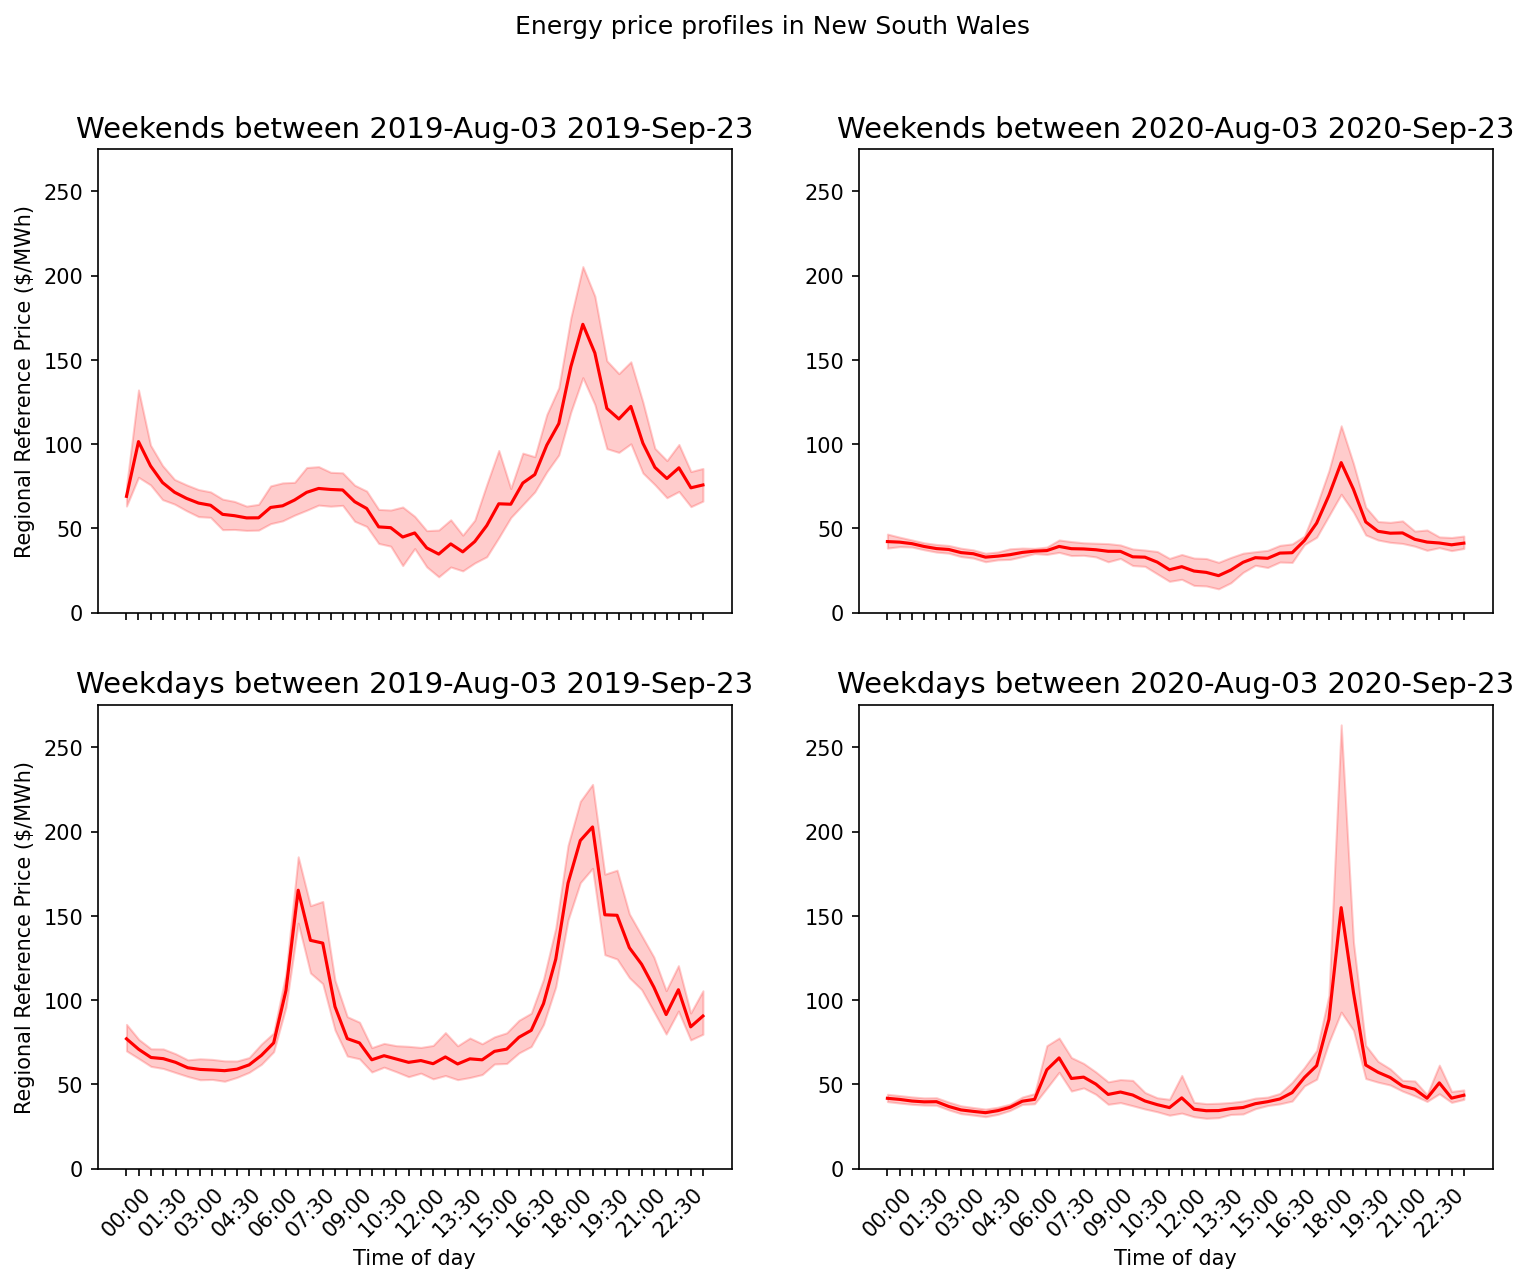
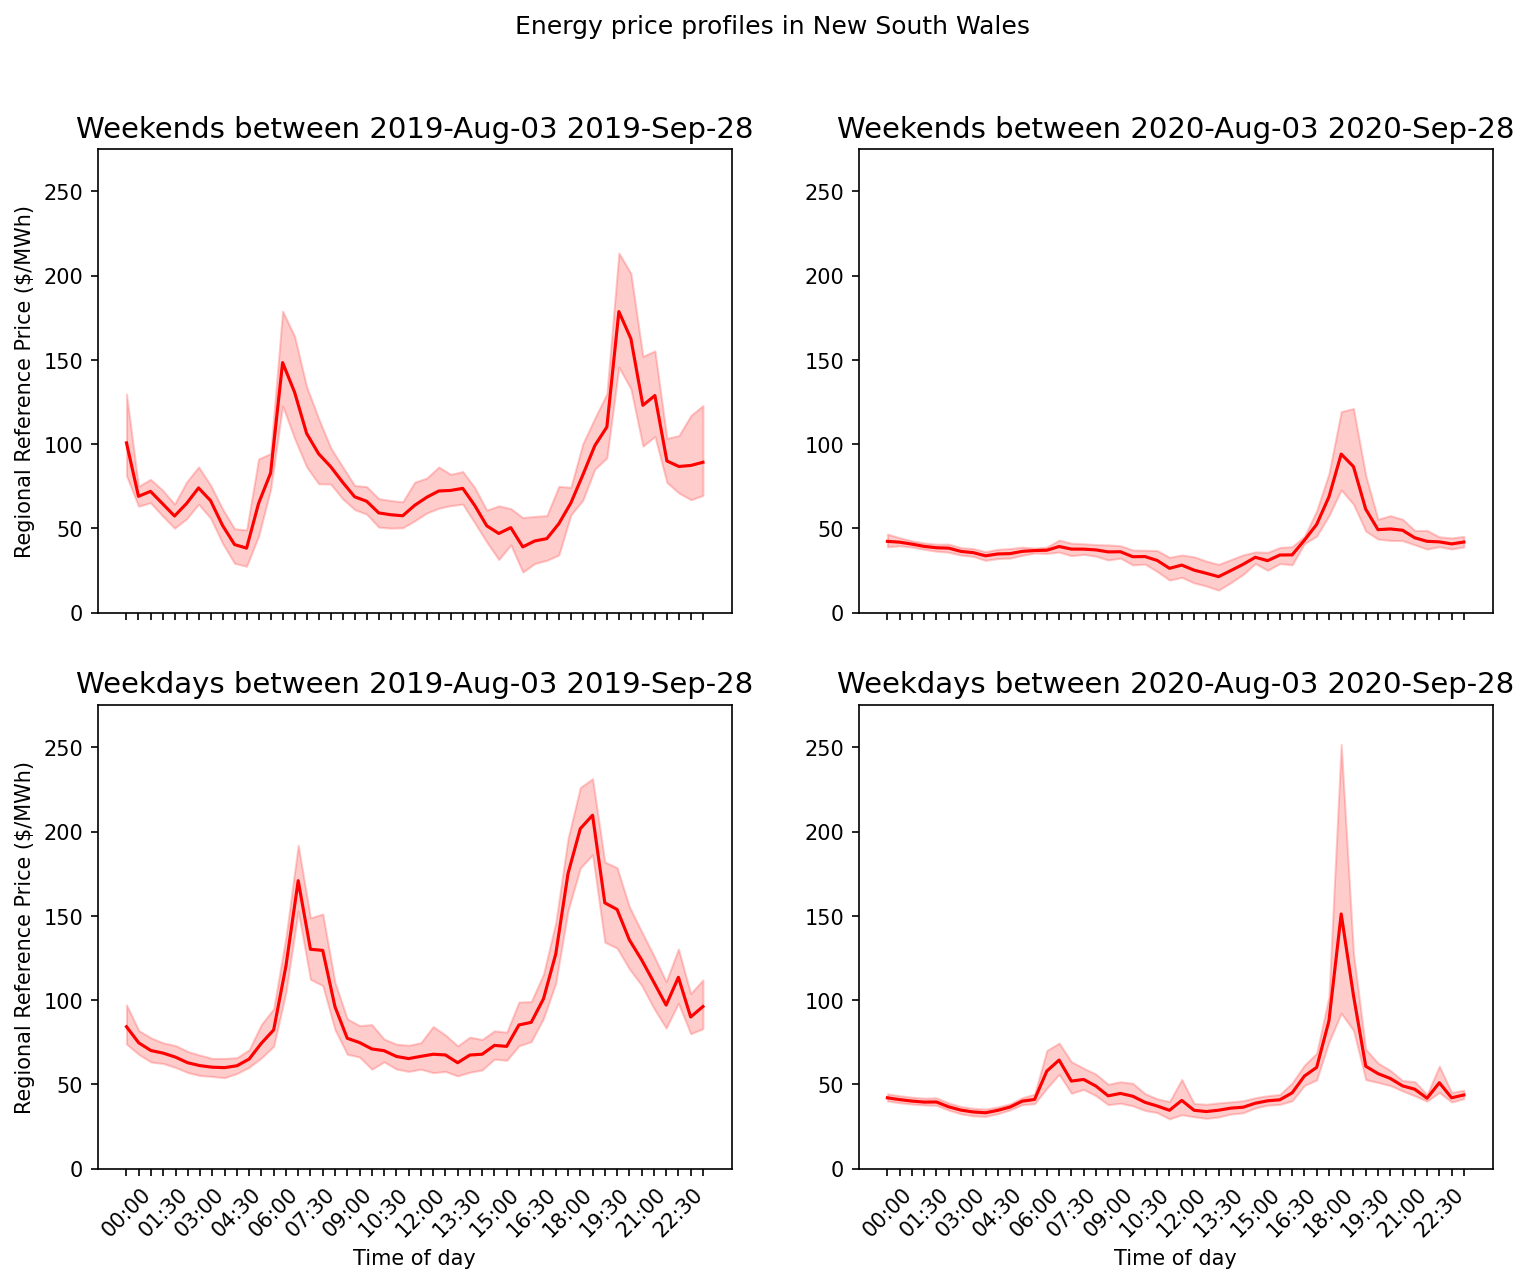
Update graphs and content for first blog

diff --git a/post/energy-consumption-pandemic-part-a/index.html b/post/energy-consumption-pandemic-part-a/index.html
@@ -847,7 +847,7 @@ restrictions. To gain further insight into the potential impact stage 4
 restrictions have on electricity consumption and price, we will make comparisons
 for the same time period last year in Victoria and similarly New South Wales, a state which is not
 currently under stage 4 restrictions.</p>
-<h2 id="victorian-electricity-demand-profiles-during-stage-4-restrictions">Victorian Electricity demand profiles during stage 4 restrictions</h2>
+<h2 id="victorian-electricity-demand-profiles-during-stage-4-restrictions"><strong>Victorian Electricity demand profiles during stage 4 restrictions</strong></h2>
 <p>Fluctuations in Electricity demand are predominantly influenced by
 human behaviour and the demand for heating and cooling. Typically, when
 comparing electricity demand across years and seasons, demand data is
@@ -886,10 +886,10 @@ requirements.</p>
 <figure >
 
 
-  <a data-fancybox="" href="/post/energy-consumption-pandemic-part-a/VIC_profiles_hu4a0b6a0cc532345b9d494a09cd8ce411_204402_2000x2000_fit_lanczos_2.png" >
+  <a data-fancybox="" href="/post/energy-consumption-pandemic-part-a/VIC_profiles_hu1a01ad05e0afb43abf9d18ec7319c84e_203947_2000x2000_fit_lanczos_2.png" >
 
 
-  <img data-src="/post/energy-consumption-pandemic-part-a/VIC_profiles_hu4a0b6a0cc532345b9d494a09cd8ce411_204402_2000x2000_fit_lanczos_2.png" class="lazyload" alt="" width="1542" height="1283">
+  <img data-src="/post/energy-consumption-pandemic-part-a/VIC_profiles_hu1a01ad05e0afb43abf9d18ec7319c84e_203947_2000x2000_fit_lanczos_2.png" class="lazyload" alt="" width="1542" height="1283">
 </a>
 
 
@@ -898,12 +898,11 @@ requirements.</p>
 
 <p>Key takeaway messages from reviewing Victorian energy demand data include:</p>
 <ol>
-<li>Energy demand profiles cycle daily with peaks at morning and evening meal times.</li>
+<li>Our weekends are looking quite similar to our weekdays.</li>
+<li>Weekend peaks associated with night-time activity are not evident during the current restrictions.</li>
 <li>Weekend energy demand shows more variation, particularly during stage 4 restrictions between 7 AM and 3PM.</li>
-<li>There is more variation in energy demand during stage 4 restrictions, this could be 
-a result of less regularity in our lives.</li>
 </ol>
-<h2 id="new-south-wales-energy-consumption-profiles-during-victorias-stage-4-restrictions">New South Wales energy consumption profiles during Victoria&rsquo;s stage 4 restrictions</h2>
+<h2 id="new-south-wales-energy-consumption-profiles-during-victorias-stage-4-restrictions"><strong>New South Wales energy consumption profiles during Victoria&rsquo;s stage 4 restrictions</strong></h2>
 <p>Naturally, I was then curious to compare the Victorian energy demand profiles
 to those found in a state which does not currently have stage 4 restrictions in place.
 Let&rsquo;s look at the neighbouring state of NSW.</p>
@@ -933,10 +932,10 @@ Let&rsquo;s look at the neighbouring state of NSW.</p>
 <figure >
 
 
-  <a data-fancybox="" href="/post/energy-consumption-pandemic-part-a/NSW_profiles_hu3e5461593dfa90e51ed1295e88a6e80f_208351_2000x2000_fit_lanczos_2.png" >
+  <a data-fancybox="" href="/post/energy-consumption-pandemic-part-a/NSW_profiles_hua080799e35a2e51567557856e2654181_193689_2000x2000_fit_lanczos_2.png" >
 
 
-  <img data-src="/post/energy-consumption-pandemic-part-a/NSW_profiles_hu3e5461593dfa90e51ed1295e88a6e80f_208351_2000x2000_fit_lanczos_2.png" class="lazyload" alt="" width="1555" height="1283">
+  <img data-src="/post/energy-consumption-pandemic-part-a/NSW_profiles_hua080799e35a2e51567557856e2654181_193689_2000x2000_fit_lanczos_2.png" class="lazyload" alt="" width="1555" height="1283">
 </a>
 
 
@@ -945,15 +944,15 @@ Let&rsquo;s look at the neighbouring state of NSW.</p>
 
 <p>Key takeaway messages from reviewing NSW energy demand data include:</p>
 <ol>
-<li>Weekday consumption appears to be quite similar for 2019 and 2020.</li>
-<li>There is a slightly more variation in weekend consumption around 1 PM.</li>
+<li>Night-time activity has also decreased in NSW.</li>
+<li>Less restrictions in NSW may be associated with more consistency in electricity demand.</li>
 <li><strong>Aggregated energy demand across NSW and Victoria has not significantly changed.</strong>
 This was not expected. It is quite possible that increases in 
 
-<a href="https://www.energynetworks.com.au/news/energy-insider/2020-energy-insider/commercial-down-v-residential-up-covid-19s-electricity-impact/" target="_blank" rel="noopener">residential demand is offsetting decreases in commercial demand</a>. 
+<a href="https://www.energynetworks.com.au/news/energy-insider/2020-energy-insider/commercial-down-v-residential-up-covid-19s-electricity-impact/" target="_blank" rel="noopener">residential demand are offsetting decreases in commercial demand</a>. 
 It would be great to get access to this data!</li>
 </ol>
-<h2 id="victorian-energy-price-profiles-during-victorias-stage-4-restrictions">Victorian energy price profiles during Victoria&rsquo;s stage 4 restrictions</h2>
+<h2 id="victorian-energy-price-profiles-during-victorias-stage-4-restrictions"><strong>Victorian energy price profiles during Victoria&rsquo;s stage 4 restrictions</strong></h2>
 <p>If you are like me and ask, &ldquo;if residential energy demand has increased then will
 my energy bill be through the roof?&rdquo; The answer is, it depends. The key
 variables are the electricity tariffs you pay (explore the Victorian energy
@@ -987,10 +986,10 @@ to a region.</p>
 <figure >
 
 
-  <a data-fancybox="" href="/post/energy-consumption-pandemic-part-a/VIC_RRP_hu97308671c2ad6735c05f28d261b92996_172159_2000x2000_fit_lanczos_2.png" >
+  <a data-fancybox="" href="/post/energy-consumption-pandemic-part-a/VIC_RRP_huec09bd75497e4d9de63913c8d2529db8_171709_2000x2000_fit_lanczos_2.png" >
 
 
-  <img data-src="/post/energy-consumption-pandemic-part-a/VIC_RRP_hu97308671c2ad6735c05f28d261b92996_172159_2000x2000_fit_lanczos_2.png" class="lazyload" alt="" width="1529" height="1283">
+  <img data-src="/post/energy-consumption-pandemic-part-a/VIC_RRP_huec09bd75497e4d9de63913c8d2529db8_171709_2000x2000_fit_lanczos_2.png" class="lazyload" alt="" width="1529" height="1283">
 </a>
 
 
@@ -1000,7 +999,7 @@ to a region.</p>
 <p>Key takeaway messages from reviewing Victorian RRP data include:</p>
 <ol>
 <li>There has been a <strong>significant</strong> shift in RRP since last year.</li>
-<li>It appears there is not a morning peak in RRP.</li>
+<li>There is no longer a morning peak in RRP.</li>
 <li>There are currently less fluctuations in RRP throughout the day.</li>
 </ol>
 <h2 id="new-south-wales-energy-price-profiles-during-victorias-stage-4-restrictions">New South Wales energy price profiles during Victoria&rsquo;s stage 4 restrictions</h2>
@@ -1032,10 +1031,10 @@ to Victoria.</p>
 <figure >
 
 
-  <a data-fancybox="" href="/post/energy-consumption-pandemic-part-a/NSW_RRP_hu45da5f1ca42e5a833609dd0818637bfc_190820_2000x2000_fit_lanczos_2.png" >
+  <a data-fancybox="" href="/post/energy-consumption-pandemic-part-a/NSW_RRP_hudc11793e7fcb86b575cf34e90df49414_174426_2000x2000_fit_lanczos_2.png" >
 
 
-  <img data-src="/post/energy-consumption-pandemic-part-a/NSW_RRP_hu45da5f1ca42e5a833609dd0818637bfc_190820_2000x2000_fit_lanczos_2.png" class="lazyload" alt="" width="1529" height="1283">
+  <img data-src="/post/energy-consumption-pandemic-part-a/NSW_RRP_hudc11793e7fcb86b575cf34e90df49414_174426_2000x2000_fit_lanczos_2.png" class="lazyload" alt="" width="1529" height="1283">
 </a>
 
 
@@ -1044,7 +1043,7 @@ to Victoria.</p>
 
 <p>After reviewing the NSW RRP data it is clear that the decline in RRP
 is <strong>not</strong> specific to Victoria.</p>
-<h2 id="how-australias-regional-reference-prices-have-changed-over-the-years">How Australia&rsquo;s Regional Reference Prices have changed over the years</h2>
+<h2 id="how-australias-regional-reference-prices-have-changed-over-the-years"><strong>How Australia&rsquo;s Regional Reference Prices have changed over the years</strong></h2>
 <p>The next step is to compare the average RRP for electricity in each state for
 each year to the current date of analysis.</p>
 
@@ -1073,10 +1072,10 @@ each year to the current date of analysis.</p>
 <figure >
 
 
-  <a data-fancybox="" href="/post/energy-consumption-pandemic-part-a/Mean_price_hue7bce37aaaf05561150ea928b75fbe93_102632_2000x2000_fit_lanczos_2.png" >
+  <a data-fancybox="" href="/post/energy-consumption-pandemic-part-a/Mean_price_hu9bc1f9dcf86ca787a867b9b756fa193e_102820_2000x2000_fit_lanczos_2.png" >
 
 
-  <img data-src="/post/energy-consumption-pandemic-part-a/Mean_price_hue7bce37aaaf05561150ea928b75fbe93_102632_2000x2000_fit_lanczos_2.png" class="lazyload" alt="" width="2322" height="1268">
+  <img data-src="/post/energy-consumption-pandemic-part-a/Mean_price_hu9bc1f9dcf86ca787a867b9b756fa193e_102820_2000x2000_fit_lanczos_2.png" class="lazyload" alt="" width="2322" height="1268">
 </a>
 
 
@@ -1086,18 +1085,17 @@ each year to the current date of analysis.</p>
 <p>The key takeaway messages from reviewing state by state RRP include:</p>
 <ol>
 <li>RRP is at a <strong>5 year low</strong>.</li>
-<li>Electricity RRP is heavily influenced by LNG which is in turn influence
-by the price of oil. For the interested reader please refer 
+<li>Electricity RRP is heavily influenced by <strong>LNG</strong> which is in turn influenced
+by the price of <strong>oil</strong>. For the interested reader please refer 
 <a href="https://www.energycouncil.com.au/analysis/gas-and-wholesale-prices-a-market-at-work/" target="_blank" rel="noopener">here</a>
 for more information.</li>
-<li><strong>COVID-19 is not</strong> the only reason electricity prices are at 5 year low, activity
-in the LNG industry through 2016 and 2017 temporarily drove RRP higher.</li>
+<li><strong>COVID-19 is not</strong> the only reason electricity prices are at 5 year low, there
+are a number of other important factors to consider.</li>
 </ol>
 <h2 id="summary">Summary</h2>
-<p>During stage 4 restrictions Victoria the demand for electricity has
-been less regularly than this time last year. A number of factors, one of which
-being COVID-19, have driven the regional reference price for electricity to a 5
-year low.</p>
+<p>Weekend electricity demand is comparable to weekday electricity demand.
+COVID-19, among other factors, has driven the regional reference price for
+electricity to a 5 year low.</p>
 <p>2020 has been a year of uncertainty and the need for good quality forecasts has
 increased. Prior to making any predictions about the future it is imperative
 that the data is explored and key drivers for change are understood. Even then,
